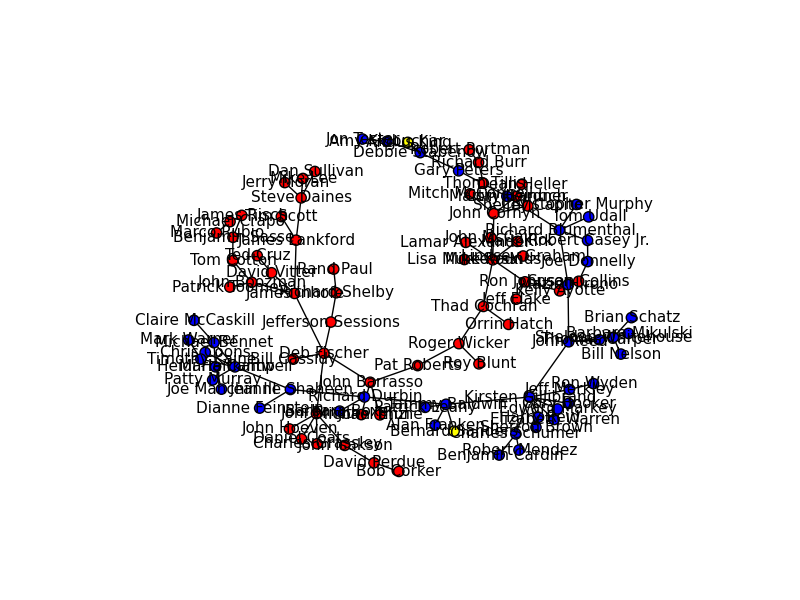
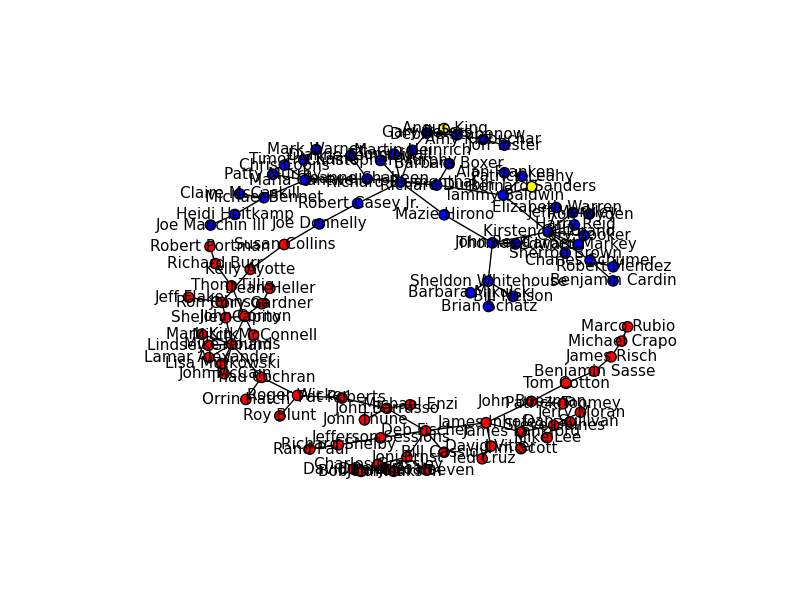
improved min_span_trees

Changed region(s): [[0.1562, 0.18, 0.875, 0.81]]

diff --git a/Politician_Network.py b/Politician_Network.py
@@ -41,7 +41,7 @@ g.add_nodes_from(sen_Names)
 
 for row in xrange(100):
 	for col in xrange(row, 100):
-		if row != col and votes[row][col] > 211:
+		if row != col and votes[row][col] > 325:
 			g.add_edge(sen_Names[row], sen_Names[col], weight=votes[row][col])
 #mst = nx.minimum_spanning_edges(g, data = True)
 #edgelist = list(mst)
@@ -71,9 +71,9 @@ for k,v in cen_dict.iteritems():
 		h_v, h_k = v, k
 	if v == 0:
 		sen_outliers.append(k)
-#print h_k, h_v
-#print sen_outliers
-#print len(sen_outliers)
+print h_k, h_v
+print sen_outliers
+print len(sen_outliers)
 
 
 plt.savefig("Politician_Graph.png")

diff --git a/Min_span_tree.py b/Min_span_tree.py
@@ -61,7 +61,31 @@ nx.draw_networkx_labels(gn, positions, labels, font_size = 11)
 nx.draw(gn, positions,node_size = 55, node_color=node_color.values())
 
 
+#					centrality(again)
+cen_dict = nx.degree_centrality(gn)
+#h_k = ''
+#h_v = 0
+average = 0
+for k,v in cen_dict.iteritems():
+	average += v
+	if v >= .05:
+		print k, v
+	
+# 	if v > h_v:
+# 		h_v, h_k = v, k
+#print h_k, h_v
+average/=100.
+print average
+
 
 
 plt.savefig("Min_span_tree.png")
 plt.show()
+
+
+
+
+
+
+
+
